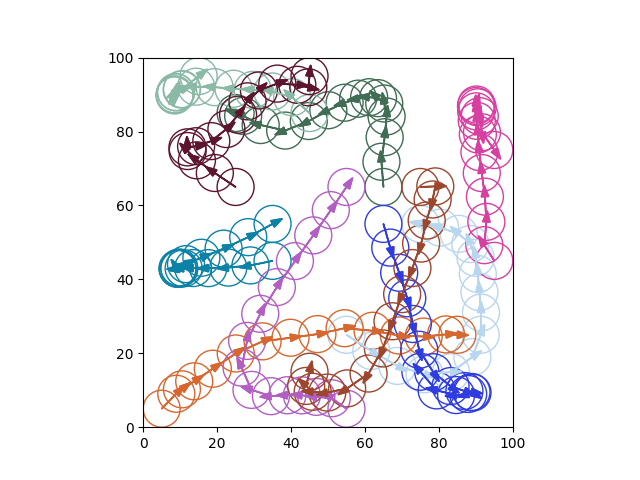
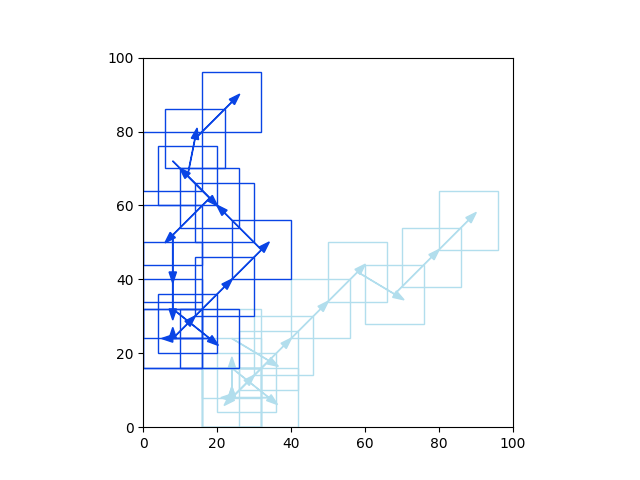
implemented lp roomba, still not working

Changed region(s): [[0.2188, 0.125, 0.8125, 0.9062]]

diff --git a/roomba_lp.py b/roomba_lp.py
@@ -6,40 +6,37 @@ from random import randrange, random
 from math import sqrt
 import json
 
+"""
+This is an "easier" formulation of the problem, which models the roombas as squares
+and allows to make some optimizations.
+"""
+
 grid_width = 100
 grid_height = 100
 roomba_width = 16
 half_roomba_width = roomba_width//2
 steps = 15
 
-def distance(p1, p2):
-    return sqrt((p2[0] - p1[0])**2 + (p2[1] - p1[1])**2)
-
-
 # Create a new model
 m = gp.Model("Collision-Avoiding Robot Guidance")
 
 class Roomba:
-    def __init__(self, p_start, p_target, speed = 10):
+    def __init__(self, p_start, p_target, speed = 10.0):
         self.p_start = p_start
         self.p_target = p_target
         self.speed = speed
         sqrspeed = self.speed**2
 
-        self.pos_x_vars = [m.addVar(lb=half_roomba_width, ub=grid_width - half_roomba_width, vtype=GRB.CONTINUOUS) for _ in range(steps)]
-        self.pos_y_vars = [m.addVar(lb=half_roomba_width, ub=grid_width - half_roomba_width, vtype=GRB.CONTINUOUS) for _ in range(steps)]
-        self.mov_x_vars = [m.addVar(lb=-self.speed, ub=self.speed, vtype=GRB.CONTINUOUS) for _ in range(steps - 1)]
-        self.mov_y_vars = [m.addVar(lb=-self.speed, ub=self.speed, vtype=GRB.CONTINUOUS) for _ in range(steps - 1)]
+        self.pos_x_vars = m.addMVar(steps, lb = half_roomba_width, ub = grid_width - half_roomba_width, vtype = GRB.CONTINUOUS)
+        self.pos_y_vars = m.addMVar(steps, lb = half_roomba_width, ub = grid_height - half_roomba_width, vtype = GRB.CONTINUOUS)
+        self.mov_x_vars = m.addMVar(steps - 1, lb = -speed, ub = speed, vtype = GRB.CONTINUOUS)
+        self.mov_y_vars = m.addMVar(steps - 1, lb = -speed, ub = speed, vtype = GRB.CONTINUOUS)
 
         # add start and end positions
         m.addConstr(self.pos_x_vars[0] == p_start[0])
         m.addConstr(self.pos_y_vars[0] == p_start[1])
-        m.addConstr(self.pos_x_vars[-1] == p_target[0])
-        m.addConstr(self.pos_y_vars[-1] == p_target[1])
-
-        # limit movement vector:
-        for xmov, ymov in zip(self.mov_x_vars, self.mov_y_vars):
-            m.addConstr(xmov**2 + ymov**2 <= sqrspeed)
+        m.addConstr(self.pos_x_vars[steps - 1] == p_target[0])
+        m.addConstr(self.pos_y_vars[steps - 1] == p_target[1])
 
         # add movement constraints
         for n in range(1, steps):
@@ -50,30 +47,45 @@ class Roomba:
 roombas = list()
 grid_points = [(x, y) for x in range(half_roomba_width, grid_width, roomba_width) for y in range(half_roomba_width, grid_height, roomba_width)]
 
-for _ in range(8):
+for _ in range(2):
     start = grid_points.pop(randrange(0, len(grid_points)))
     target = grid_points.pop(randrange(0, len(grid_points)))
     roombas.append(Roomba(start, target))
 
 # Collision-Avoidance Terms
+non_abses = list()
+abses = list()
 for r1, r2 in combinations(roombas, 2):
     for n in range(steps):
-        dx = r1.pos_x_vars[n] - r2.pos_x_vars[n]
-        dy = r1.pos_y_vars[n] - r2.pos_y_vars[n]
-        min_sqr_dist = roomba_width**2
-        m.addConstr(dx**2 + dy**2 >= min_sqr_dist)
+        # model distance along x and y axis
+        dx = m.addVar(lb = -grid_width, ub = grid_width)
+        dy = m.addVar(lb = -grid_height, ub = grid_height)
+        m.addConstr(dx == r1.pos_x_vars[n] - r2.pos_x_vars[n])
+        m.addConstr(dy == r1.pos_y_vars[n] - r2.pos_y_vars[n])
+        non_abses.append(dx)
+        non_abses.append(dy)
 
-# Define Objective
-#objective = 0
-#for r in roombas:
-#    sqrspeed = r.speed**2
-#    objective += sum(xmov**2 + ymov**2 for xmov, ymov in zip(r.mov_x_vars, r.mov_y_vars))
-#m.setObjective(objective, GRB.MINIMIZE)
+        # model absolute distance
+        absdist_x = m.addVar()
+        absdist_y = m.addVar()
+        abses.append(absdist_x)
+        abses.append(absdist_y)
+        m.addConstr(absdist_x == gp.abs_(dx))
+        m.addConstr(absdist_y == gp.abs_(dy))
+        
+        # avoid collision
+        m.addConstr(absdist_x >= roomba_width)
+        m.addConstr(absdist_y >= roomba_width)
 
 m.setParam('Threads', 12)
-m.setParam('NonConvex', 2)
+#m.setParam('NonConvex', 2)
 m.update()
+
+
 m.optimize()
+if m.status == GRB.INFEASIBLE:
+    print("Infeasible!")
+    exit(1)
 
 
 # get and plot paths
@@ -84,26 +96,24 @@ axes.set_xlim((0, grid_width))
 axes.set_ylim((0, grid_height))
 axes.set_aspect(grid_width / grid_height)
 
-circles = list()
-arrows = list()
 for r in roombas:
     color = tuple(random() for _ in range(3))
     movv = [(r.mov_x_vars[i].x, r.mov_y_vars[i].x) for i in range(steps - 1)]
     posv = [(r.pos_x_vars[i].x, r.pos_y_vars[i].x) for i in range(steps)]
 
     for i, (x, y) in enumerate(posv):
-        # circle
-        circles.append(plt.Circle((x, y), radius=half_roomba_width, color=color, fill=False))
+        # rect
+        axes.add_artist(plt.Rectangle((x - half_roomba_width, y - half_roomba_width), roomba_width, roomba_width, color=color, fill=False))
         # arrow
         if i < steps - 1:
             (dx, dy) = movv[i]
-            arrows.append(plt.arrow(x, y, dx, dy, width=0.1, head_width=2, color=color, shape="full"))
+            plt.arrow(x, y, dx, dy, width=0.1, head_width=2, color=color, shape="full")
 
     paths.append(posv)
-
-for artist in chain(circles, arrows):
-    axes.add_artist(artist)
 
 with open("paths.json", "w") as f:
         json.dump(paths, f)
 plt.savefig("out.png")
+
+print([a.x for a in non_abses])
+print([a.x for a in abses])
